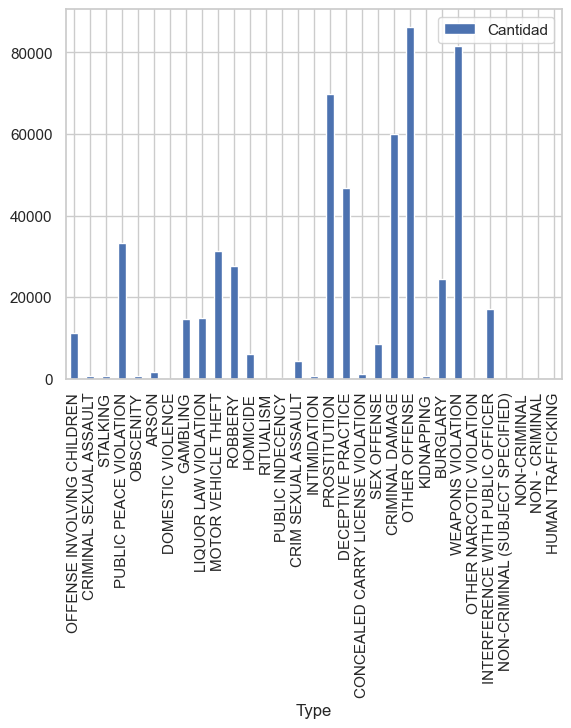
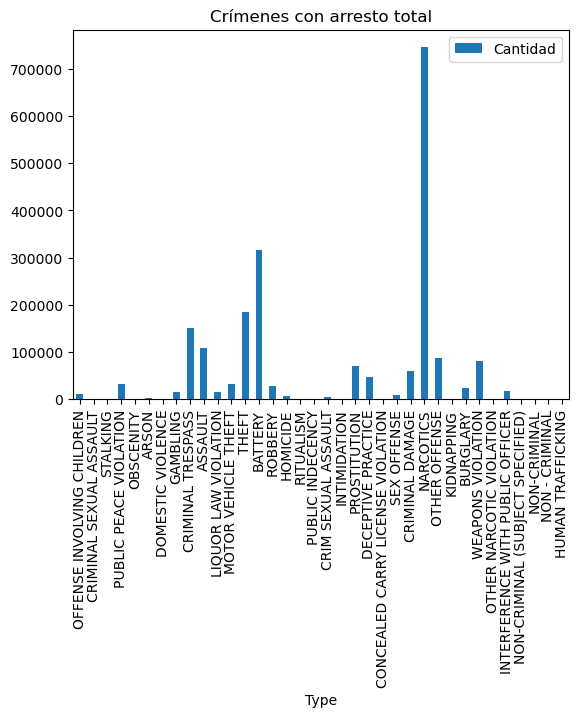
arretos ya hecho

Changed region(s): [[0.0, 0.0, 1.0, 0.9819], [0.5061, 0.9512, 0.5954, 1.0]]

diff --git a/webPage/Resultados.html b/webPage/Resultados.html
@@ -232,14 +232,18 @@
         <div class="carousel-item active">
           <img class="d-block w-100" src="./images/arrestostodos.png" alt="Imagen Gran Vía no cargada">
           <div class="carousel-caption d-none d-md-block">
-            <h3 class ="fondoGrisTexto">todos los delitos</h3>
             <p class="fondoGrisTexto"></p>
+          </div>
+        </div>
+        <div class="carousel-item">
+          <img class="d-block w-100" src="./images/arrestosmenos100k.png" alt="Imagen Museo del Prado no cargada">
+          <div class="carousel-caption d-none d-md-block">
+            <p class = "fondoGrisTexto"></p>
           </div>
         </div>
         <div class="carousel-item">
           <img class="d-block w-100" src="./images/arrestostop5.png" alt="Imagen Museo del Prado no cargada">
           <div class="carousel-caption d-none d-md-block">
-            <h3 class ="fondoGrisTexto">top 5 delitos</h3>
             <p class = "fondoGrisTexto"></p>
           </div>
         </div>
@@ -265,7 +269,7 @@
             <h5>Datos acerca de los arrestos que se producen en un crimen</h5>
           </div>
             <div class="card-body">
-              <p class="card-text"> A la izquierda vemos un carrusel que incluye los arrestos que se han producido en cada uno de los delitos y a la defrechha tenemos el porcentaje de arrestos que se producen para cada tipo de delito</p>              
+              <p class="card-text"> A la izquierda vemos un carrusel que incluye los arrestos que se han producido en cada uno de los delitos y a la derecha tenemos el porcentaje de arrestos que se producen para cada tipo de delito</p>              
               <p class="card-text"> Como dato recalcable vemos en el grafico de la derecha que los crimenes con mayor gravedad suelen ser resueltos en casi el 100% de los casos mientras que los pequeños no suelen ser resueltos o no conllevan un arresto</p>              
             </div>
         </div>
